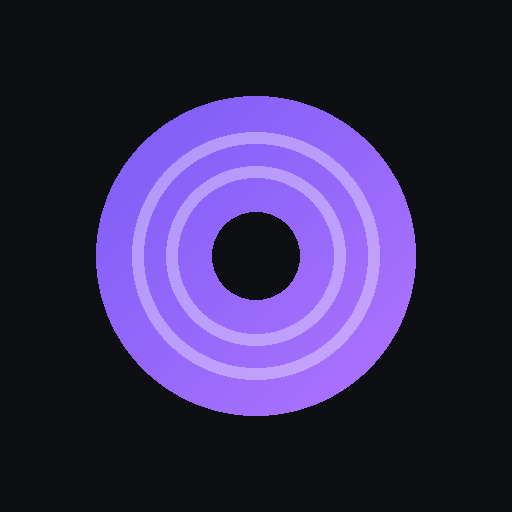
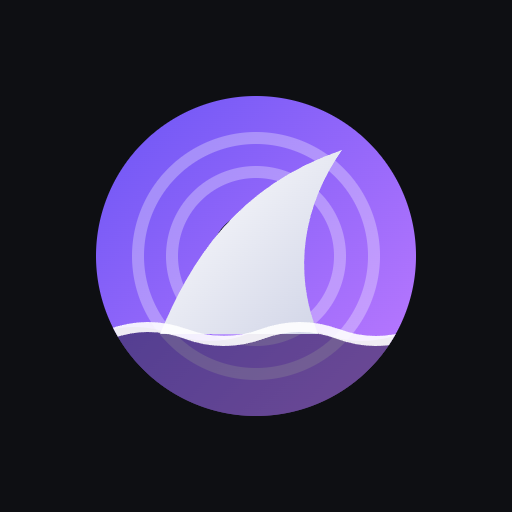
Переименовать в SpoolShark, новая иконка

Changed region(s): [[0.2188, 0.2812, 0.7812, 0.8125]]

diff --git a/site/index.html b/site/index.html
@@ -3,7 +3,7 @@
 <head>
 <meta charset="utf-8">
 <meta name="viewport" content="width=device-width, initial-scale=1, viewport-fit=cover">
-<title>Філамент UA</title>
+<title>SpoolShark</title>
 <meta name="description" content="Ціни та наявність пластику для 3D-друку в українських магазинах">
 <meta name="theme-color" content="#0e0f13" media="(prefers-color-scheme: dark)">
 <meta name="theme-color" content="#f4f3f7" media="(prefers-color-scheme: light)">
@@ -22,7 +22,7 @@
 <header class="top">
   <div class="top-row">
     <div>
-      <h1 id="title">Філамент</h1>
+      <h1 id="title">SpoolShark</h1>
       <p id="stats" class="stats">Завантаження…</p>
     </div>
     <button class="icon-btn" id="theme" aria-label="Тема">

diff --git a/site/app.js b/site/app.js
@@ -669,7 +669,7 @@ function initSettings() {
 }
 
 /* ---------- навигация ---------- */
-const TITLES = { home: "Філамент UA", list: "Каталог", calc: "Калькулятор", set: "Налаштування" };
+const TITLES = { home: "SpoolShark", list: "Каталог", calc: "Калькулятор", set: "Налаштування" };
 function go(v) {
   if (!TITLES[v]) v = "home";
   $$(".view").forEach(s => s.classList.toggle("active", s.id === "v-" + v));

diff --git a/site/sw.js b/site/sw.js
@@ -1,5 +1,5 @@
 // Оболочка приложения — из кэша; данные — сначала сеть, без сети последняя копия.
-const CACHE = "ft-v13";
+const CACHE = "ft-v14";
 const WATCH = "ft-watch";  // обране и последние цены для уведомлений, не чистится при обновлении
 const SHELL = ["./", "index.html", "style.css", "app.js", "manifest.webmanifest", "icon.svg", "icon-192.png"];
 

diff --git a/CHANGELOG.md b/CHANGELOG.md
@@ -26,3 +26,4 @@
 - offers.json: без поля `shop` (имя из shops[]), `group` — md5[:10]; 5.9 → 5.5 МБ (gzip почти без изменений).
 - sw: offers.json отдаётся сразу из памяти телефона, свежий качается в фоне, при новом файле кнопка «Є свіжі ціни · оновити».
 - Уведомления про обране: sw.js сравнивает минимальную цену склейки с прошлой, пишет при падении на 1%+ или появлении в наличии; фоном через Periodic Background Sync (только установленное приложение, Chrome Android), иначе при открытии сайта. Панель «Сповіщення» в настройках. sw `ft-v13`.
+- Название приложения: SpoolShark (по нику пользователя), иконка — плавник акулы над волной на фоне катушки; адрес сайта не менялся. sw `ft-v14`.

diff --git a/PROJECT.md b/PROJECT.md
@@ -30,7 +30,7 @@ scraper/sources/ld_listing.py   Product/Offer из ld+json на страница
 scraper/sources/prom_search.py  поиск Prom: JSON товаров в состоянии страницы, &page=N
 scraper/sources/monofilament.py MonoFilament: карточка mfil-catalog-card, активный вариант = вес
 site/                     PWA: index.html, app.js, style.css, sw.js, manifest, иконки
-tools/make_icons.py       генерит icon-192/512.png без библиотек
+tools/make_icons.py       старый генератор PNG (рисует прежнюю катушку); с 2026-11-12 icon-192/512.png — растр из icon.svg через canvas браузера, 512 с залитыми углами (maskable)
 .claude/launch.json       локальный сервер: python -m http.server 8765 -d site
 ```
 

diff --git a/CLAUDE.md b/CLAUDE.md
@@ -1,4 +1,4 @@
-# Filament Tracker — точка входа
+# Filament Tracker (на сайте — SpoolShark) — точка входа
 
 Личный трекер цен и наличия пластика для 3D-печати в Украине. Телефон в первую очередь (PWA).
 
